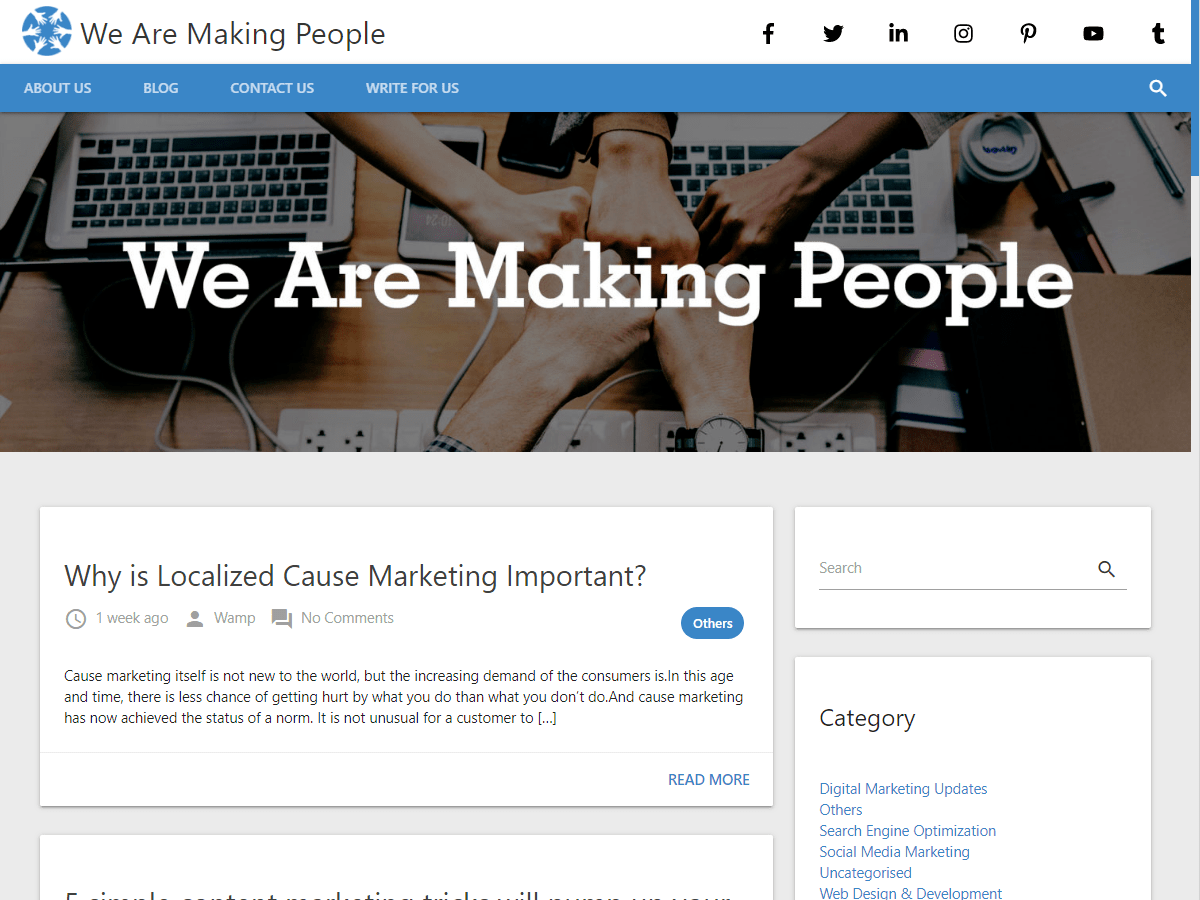
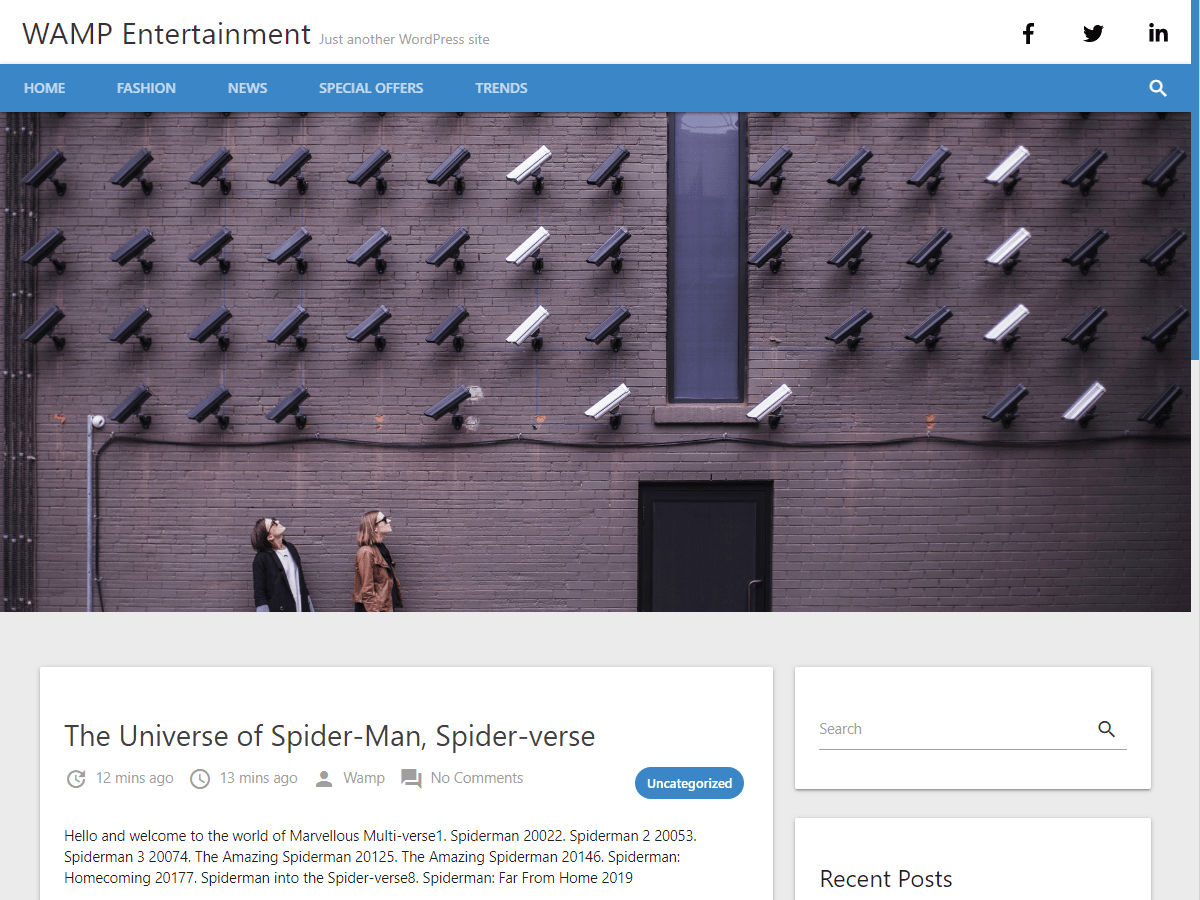
Versioned 1.3.5

diff --git a/style.css b/style.css
@@ -269,6 +269,7 @@ nav .nav-wrapper h1 small {
     position: absolute;
     z-index: 9999;
     left: 0;
+    text-align: left;
     transition: all 0.3s ease;
     -webkit-transform: scale(0);
     transform: scale(0);
@@ -542,14 +543,15 @@ hr.thin {
 .card .card-content .post-content p {
     margin-top: 15px;
     margin-bottom: 15px;
+    font-size: 16px;
 }
 
-.card .card-content .post-content :not(#comments) ul {
+.card .card-content .post-content ul {
     padding-left: 40px;
     list-style-type: initial;
 }
 
-.card .card-content .post-content :not(#comments) ul li {
+.card .card-content .post-content ul li {
     list-style-type: initial;
 }
 

diff --git a/index.php b/index.php
@@ -5,7 +5,7 @@
 
         <div id="site-header">
             <a href="<?php echo esc_url(home_url('/')); ?>" rel="home">
-                <img src="<?php echo esc_url(get_theme_mod("color_wamp_home_header_top_image")) ?>" alt="<?php bloginfo('name', 'display'); ?>" class="banner-image home-banner w-full">
+                <img src="<?php echo esc_url(get_theme_mod("color_wamp_home_header_top_image", get_template_directory_uri() . "/images/back_banner.jpg")) ?>" alt="<?php bloginfo('name', 'display'); ?>" class="banner-image home-banner w-full">
             </a>
         </div>
         <br />
